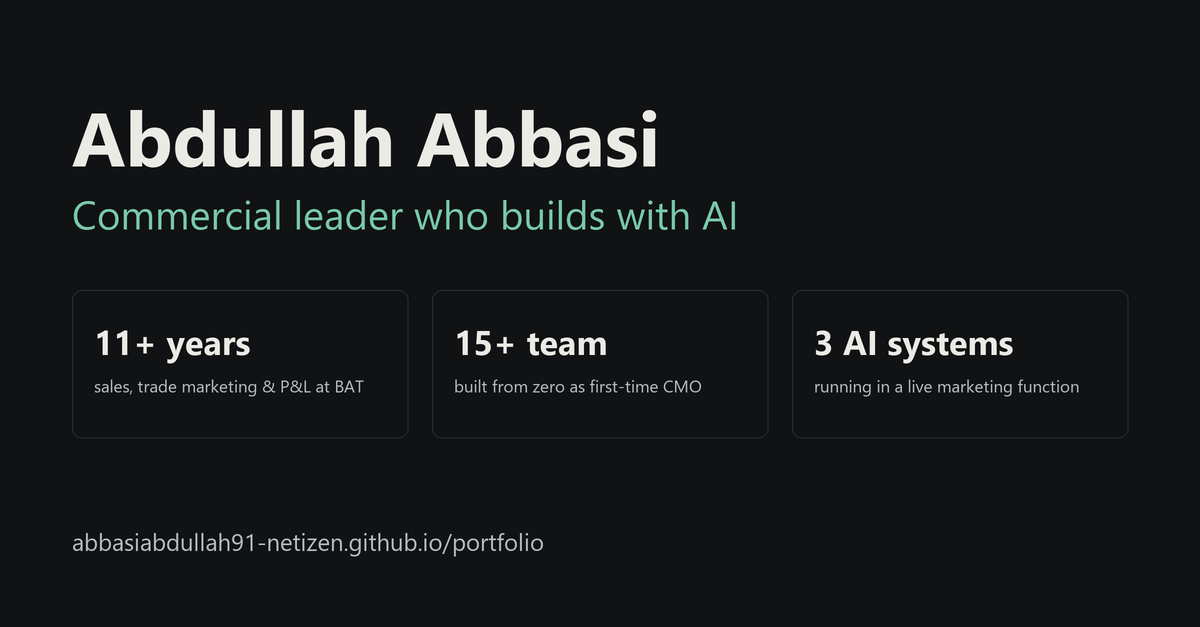
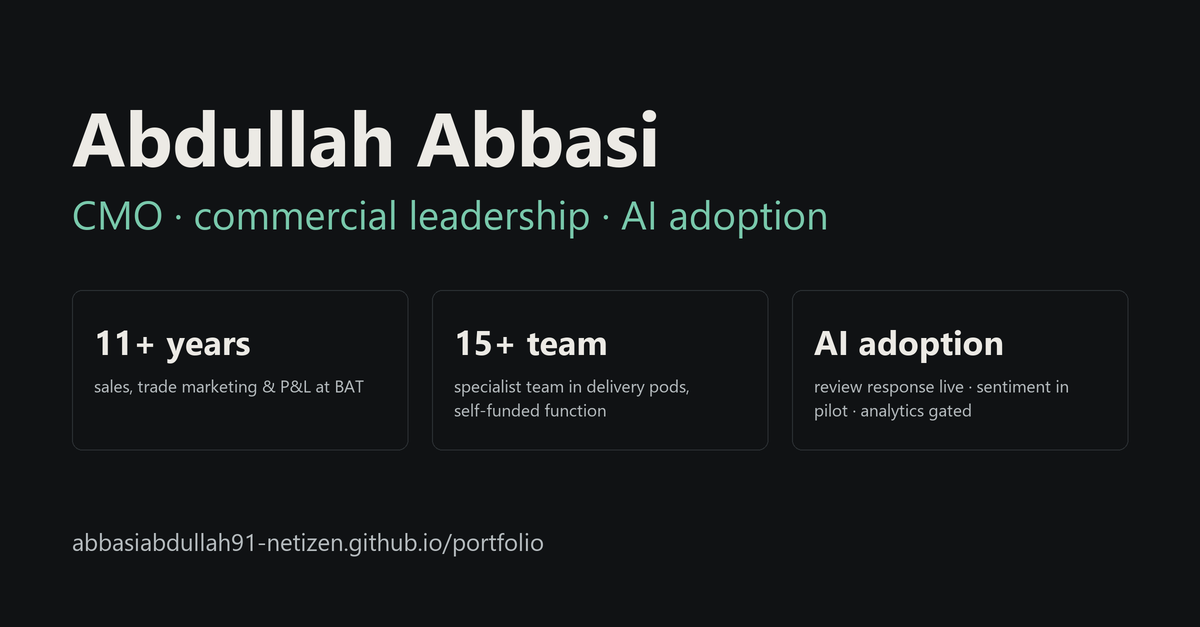
Revision pass 11 Sep 2026: live/pilot/gated wording, team credit, CMO-first hero, new share card

diff --git a/index.html b/index.html
@@ -3,18 +3,18 @@
 <head>
 <meta charset="utf-8">
 <meta name="viewport" content="width=device-width, initial-scale=1">
-<title>Abdullah Abbasi — Commercial leader who builds with AI</title>
-<meta name="description" content="11+ years at BAT, now CMO of a 15+ brand hospitality group. Three AI systems running in a live marketing function, how I run AI as a managed team, and the career behind it.">
+<title>Abdullah Abbasi — Commercial leader, AI adoption in practice</title>
+<meta name="description" content="CMO of a 15+ brand hospitality group, after 11+ years at BAT. Live review response, customer-sentiment reporting in pilot, and a nightly analytics pipeline with reliability still gated.">
 <meta name="author" content="Abdullah Abbasi">
 <meta property="og:type" content="profile">
 <link rel="canonical" href="https://abbasiabdullah91-netizen.github.io/portfolio/">
 <meta property="og:url" content="https://abbasiabdullah91-netizen.github.io/portfolio/">
-<meta property="og:title" content="Abdullah Abbasi — Commercial leader who builds with AI">
-<meta property="og:description" content="11+ years at BAT, now CMO of a 15+ brand hospitality group. Three AI systems running in a live marketing function, how I run AI as a managed team, and the career behind it.">
+<meta property="og:title" content="Abdullah Abbasi — Commercial leader, AI adoption in practice">
+<meta property="og:description" content="CMO of a 15+ brand hospitality group, after 11+ years at BAT. Live review response, customer-sentiment reporting in pilot, and a nightly analytics pipeline with reliability still gated.">
 <meta property="og:image" content="https://abbasiabdullah91-netizen.github.io/portfolio/og.png">
 <meta property="og:image:width" content="1200">
 <meta property="og:image:height" content="627">
-<meta property="og:image:alt" content="Abdullah Abbasi — Commercial leader who builds with AI. 11+ years, 15+ team, 3 AI systems.">
+<meta property="og:image:alt" content="Abdullah Abbasi — CMO, commercial leadership, AI adoption. 11+ years at BAT, 15+ team, review response live, sentiment in pilot, analytics gated.">
 <meta property="og:locale" content="en_GB">
 <meta name="twitter:card" content="summary_large_image">
 <meta name="twitter:image" content="https://abbasiabdullah91-netizen.github.io/portfolio/og.png">
@@ -79,6 +79,7 @@ a:focus-visible,button:focus-visible,textarea:focus-visible,summary:focus-visibl
 .hero h1{font-size:clamp(2.3rem,6vw,3.5rem);margin-bottom:16px}
 .hero .lede{font-size:clamp(1rem,2vw,1.2rem);color:var(--ink-2);max-width:52ch;margin-bottom:20px}
 .hero .lede strong{color:var(--ink);font-weight:600}
+.hero .intent{font-size:.95rem;color:var(--ink-3);max-width:64ch;margin-bottom:22px}
 .actions{display:flex;flex-wrap:wrap;gap:12px}
 .btn{
   display:inline-block;text-decoration:none;font-size:.98rem;font-weight:600;
@@ -100,6 +101,9 @@ a:focus-visible,button:focus-visible,textarea:focus-visible,summary:focus-visibl
 .glance a{display:block;padding:14px 22px;text-decoration:none;color:var(--ink-2);font-size:.95rem}
 .glance a:hover{background:var(--bg-alt)}
 .glance b{display:block;color:var(--ink);font-size:1.25rem;font-weight:680;letter-spacing:-0.02em;margin-bottom:2px}
+.case-links{margin:0;padding:12px 22px;border-top:1px solid var(--rule);display:flex;flex-wrap:wrap;gap:8px 22px;font-size:.9rem}
+.glance .case-links a{display:inline-flex;align-items:center;min-height:44px;padding:0;color:var(--accent);text-decoration-thickness:1px;text-underline-offset:3px}
+.glance .case-links a:hover{background:transparent;text-decoration:none}
 
 /* career */
 .career{padding:28px 0;border-bottom:1px solid var(--rule)}
@@ -111,7 +115,7 @@ a:focus-visible,button:focus-visible,textarea:focus-visible,summary:focus-visibl
 .career details ol{margin-top:0}
 .career summary{
   cursor:pointer;list-style:none;display:inline-flex;align-items:center;gap:9px;
-  font-size:.92rem;font-weight:600;color:var(--accent);padding:4px 0;
+  font-size:.92rem;font-weight:600;color:var(--accent);padding:4px 0;min-height:44px;
 }
 .career summary::-webkit-details-marker{display:none}
 .career summary::after{content:"→";transition:transform .15s ease}
@@ -119,7 +123,7 @@ a:focus-visible,button:focus-visible,textarea:focus-visible,summary:focus-visibl
 @media (prefers-reduced-motion:reduce){.career summary::after{transition:none}}
 .career li{padding:7px 0;border-top:1px solid var(--rule)}
 .career .role{font-weight:650;font-size:1rem;display:block}
-.career .meta{display:block;font-size:.82rem;color:var(--ink-3);margin:1px 0 4px}
+.career .meta{display:block;font-size:14px;color:var(--ink-3);margin:1px 0 4px}
 .career .out{display:block;font-size:.92rem;color:var(--ink-2)}
 .career li.now .role{color:var(--accent)}
 
@@ -129,6 +133,11 @@ a:focus-visible,button:focus-visible,textarea:focus-visible,summary:focus-visibl
 .case-head{max-width:var(--measure)}
 .case-kicker{font-size:.86rem;color:var(--ink-3);margin:0 0 10px}
 .case h2{font-size:clamp(1.6rem,3.6vw,2.3rem)}
+.case-status{
+  display:inline-block;font-size:.78rem;text-transform:uppercase;letter-spacing:.09em;
+  font-weight:700;color:var(--accent);border:1px solid var(--rule);border-radius:var(--radius);
+  padding:4px 10px;margin:0 0 12px;
+}
 .case-grid{display:grid;gap:32px;margin-top:32px;grid-template-columns:1fr}
 @media (min-width:860px){
   .case-grid{grid-template-columns:minmax(0,1.35fr) minmax(0,1fr);gap:48px}
@@ -164,7 +173,7 @@ a:focus-visible,button:focus-visible,textarea:focus-visible,summary:focus-visibl
 .case details{margin-top:22px}
 .case summary{
   cursor:pointer;list-style:none;display:inline-flex;align-items:center;gap:9px;
-  font-size:.95rem;font-weight:600;color:var(--accent);padding:6px 0;
+  font-size:.95rem;font-weight:600;color:var(--accent);padding:6px 0;min-height:44px;
 }
 .case summary::-webkit-details-marker{display:none}
 .case summary::after{content:"→";transition:transform .15s ease}
@@ -176,7 +185,7 @@ a:focus-visible,button:focus-visible,textarea:focus-visible,summary:focus-visibl
 
 /* demo */
 .demo{padding:56px 0;background:var(--bg-alt);border-bottom:1px solid var(--rule)}
-.demo h2{font-size:clamp(1.6rem,3.6vw,2.3rem);max-width:20ch}
+.demo h2,.demo h3{font-size:clamp(1.6rem,3.6vw,2.3rem);max-width:20ch;letter-spacing:-0.02em}
 .demo .intro{color:var(--ink-2);max-width:var(--measure);margin-top:14px}
 .demo-note{
   font-size:.86rem;color:var(--ink-3);border-left:2px solid var(--accent);
@@ -187,13 +196,13 @@ a:focus-visible,button:focus-visible,textarea:focus-visible,summary:focus-visibl
 label{display:block;font-size:.82rem;text-transform:uppercase;letter-spacing:.09em;color:var(--ink-3);font-weight:600;margin-bottom:8px}
 textarea{
   width:100%;min-height:150px;resize:vertical;padding:14px;
-  font:inherit;font-size:.98rem;color:var(--ink);background:var(--surface);
+  font:inherit;font-size:16px;color:var(--ink);background:var(--surface);
   border:1px solid var(--rule);border-radius:var(--radius);
 }
 textarea::placeholder{color:var(--ink-3)}
 .samples{display:flex;flex-wrap:wrap;gap:8px;margin:12px 0 14px}
 .chip{
-  font:inherit;font-size:.86rem;cursor:pointer;padding:7px 13px;
+  font:inherit;font-size:.86rem;cursor:pointer;padding:7px 13px;min-height:44px;
   background:transparent;color:var(--ink);border:1px solid var(--rule);border-radius:var(--radius);
 }
 .chip:hover{border-color:var(--accent);color:var(--accent)}
@@ -216,7 +225,7 @@ textarea::placeholder{color:var(--ink-3)}
 .how details{margin-top:18px}
 .how summary{
   cursor:pointer;list-style:none;display:inline-flex;align-items:center;gap:9px;
-  font-size:.95rem;font-weight:600;color:var(--accent);padding:6px 0;
+  font-size:.95rem;font-weight:600;color:var(--accent);padding:6px 0;min-height:44px;
 }
 .how summary::-webkit-details-marker{display:none}
 .how summary::after{content:"→";transition:transform .15s ease}
@@ -243,7 +252,8 @@ footer p{color:var(--ink-2);max-width:52ch}
 <header class="hero">
   <div class="wrap">
     <h1>Abdullah Abbasi</h1>
-    <p class="lede">11+ years at British American Tobacco in sales, trade marketing and multi-category P&amp;L. <strong>Now CMO of a hospitality group, building the AI systems that run its marketing.</strong></p>
+    <p class="lede"><strong>CMO of a 15+ brand hospitality group, leading commercial operations and AI adoption.</strong> Before that, 11+ years at British American Tobacco in sales, trade marketing and multi-category P&amp;L. Technical implementation sits with partners; I set the problem, the workflow and the acceptance criteria.</p>
+    <p class="intent">Pakistan-based. Open to international commercial leadership and business-side AI adoption conversations; relocation requires employer sponsorship.</p>
     <div class="actions">
       <a class="btn" href="mailto:abbasi.abdullah91@gmail.com">Email me</a>
       <a class="btn ghost" href="https://www.linkedin.com/in/abdullahabbasi91/" rel="me noopener">LinkedIn profile</a>
@@ -255,9 +265,14 @@ footer p{color:var(--ink-2);max-width:52ch}
   <div class="wrap">
     <ul>
       <li><a href="#career-title"><b>11+ years</b> in sales, trade marketing and P&amp;L at British American Tobacco</a></li>
-      <li><a href="#career-title"><b>15+ specialist team</b> built from zero as a first-time CMO</a></li>
-      <li><a href="#case-1"><b>3 AI systems</b> shipped and running in a live marketing function</a></li>
+      <li><a href="#career-title"><b>15+ specialist team</b> in delivery pods, within a self-funded marketing function</a></li>
+      <li><a href="#work"><b>Selected AI work</b> review response live &middot; sentiment in pilot &middot; analytics gated</a></li>
     </ul>
+    <p class="case-links">
+      <a href="#case-1">Review replies with human escalation</a>
+      <a href="#case-2">Owned leadership reporting</a>
+      <a href="#case-3">Customer sentiment by theme</a>
+    </p>
   </div>
 </nav>
 
@@ -266,7 +281,7 @@ footer p{color:var(--ink-2);max-width:52ch}
     <h2 id="career-title">Career</h2>
     <p class="intro">The builds below are the latest chapter of an 11+ year commercial career, not a side project.</p>
       <ol>
-      <li class="now"><span class="role">Chief Marketing Officer</span><span class="meta">15+ brand hospitality group &middot; Mar 2026 &ndash; present</span><span class="out">Built the group&rsquo;s first marketing function, a 15+ specialist team, and the AI systems below.</span></li>
+      <li class="now"><span class="role">Chief Marketing Officer</span><span class="meta">15+ brand hospitality group &middot; Mar 2026 &ndash; present</span><span class="out">Lead a 15+ specialist team organised in delivery pods, within a self-funded marketing function, and the AI adoption below.</span></li>
       <li><span class="role">Head of Marketing Deployment, New Categories &amp; Combustibles</span><span class="meta">British American Tobacco Pakistan &middot; Jul 2024 &ndash; Feb 2026</span><span class="out">First marketing leadership role. VELO to a #1 global brand power ranking, category share above 80%.</span></li>
       <li><span class="role">Senior Area Manager, Karachi</span><span class="meta">British American Tobacco Pakistan &middot; Sep 2022 &ndash; Jun 2024</span><span class="out">Multi-category P&amp;L in Pakistan&rsquo;s largest market, and 300% volume growth in six months on a redesigned vaping model.</span></li>
       </ol>
@@ -293,10 +308,11 @@ footer p{color:var(--ink-2);max-width:52ch}
     <div class="wrap">
       <div class="case-head">
         <p class="case-kicker">Review replies across a hospitality group</p>
-        <h2>Replies went from whenever someone had time to twice a day. The risky ones stayed with a person.</h2>
+        <p class="case-status">Live</p>
+        <h2>Review replies with human escalation</h2>
       </div>
       <ul class="bullets">
-        <li>Review coverage widened roughly 40% in a single evening.</li>
+        <li>Review coverage widened roughly 40% in a single evening. Replies went from whenever someone had time to twice a day.</li>
         <li>Total running cost is a fraction of one junior hire.</li>
         <li>Food safety, legal and anything touching harm still goes to a person.</li>
       </ul>
@@ -307,17 +323,17 @@ footer p{color:var(--ink-2);max-width:52ch}
           <h3>The problem</h3>
           <p>A hospitality group, 15+ brands. Every location collects public reviews. Replies were manual, so they were inconsistent, and an unanswered complaint is the first thing a customer reads before choosing where to eat.</p>
 
-          <h3>What I built</h3>
-          <p>An AI system that drafts and publishes brand-voiced replies to Google reviews across the group, twice a day, with one category permanently reserved for a human: food safety, legal disputes, and anything touching safety or harm.</p>
+          <h3>What we delivered</h3>
+          <p>An AI system that drafts and publishes brand-voiced replies to Google reviews across the group, twice a day, with one category permanently reserved for a human: food safety, legal disputes, and anything touching safety or harm. I set the workflow and acceptance criteria; technical partners implemented it.</p>
 
           <h3>How it works</h3>
           <p>The system checks for new reviews. Each one goes to an AI model carrying the brand's approved reply rules: short, acknowledge, thank or apologise, close, no names, no emojis. The same model sorts the review into ordinary or sensitive. Ordinary replies publish themselves. Sensitive ones go to a person.</p>
 
           <h3>What it proves</h3>
           <ol class="proof">
-            <li><b>I diagnose before I build.</b> An eight-week publishing failure had been attributed to the platform. It was five stacked operational faults: expired balances, full storage, two formatting defects. The AI was never the problem, and finding that saved a rebuild.</li>
+            <li><b>I diagnose before we build.</b> An eight-week publishing failure had been attributed to the platform. It was five stacked operational faults: expired balances, full storage, two formatting defects. The AI was never the problem, and finding that saved a rebuild.</li>
             <li><b>I decided where the human stays.</b> Removing the last approval step was possible. I refused it for the sensitive category. A machine that auto-replies to a food-safety complaint is a brand risk no efficiency saving pays for.</li>
-            <li><b>I learned what my own controls could not see.</b> Every monitor I built detected failure. None detected too much. One listing over-replied for days while every check read green, and a person noticing the volume felt wrong was what caught it. I built the anomaly check afterwards.</li>
+            <li><b>I learned what our controls could not see.</b> Our monitoring initially detected stoppages but missed excess activity. One listing over-replied for days while every check read green, and a person noticing the volume felt wrong was what caught it. We added the anomaly check afterwards.</li>
           </ol>
         </div>
         <aside class="rail">
@@ -343,11 +359,13 @@ footer p{color:var(--ink-2);max-width:52ch}
     <div class="wrap">
       <div class="case-head">
         <p class="case-kicker">Owned analytics in place of a paid subscription</p>
-        <h2>Leadership reporting at roughly 3% of the subscription it replaced, and a spend figure that finally tied to the finance total.</h2>
+        <p class="case-status">Reliability still gated</p>
+        <h2>Owned leadership reporting</h2>
       </div>
       <ul class="bullets">
         <li>Runs at roughly 3% of the running cost of the subscription it replaced.</li>
         <li>The spend figure went live only once it tied to the finance-verified total.</li>
+        <li>The page displays its data date and coverage gaps. Runs can fail, and reliability is still gated.</li>
       </ul>
       <details id="build-2">
         <summary>Read the build</summary>
@@ -356,16 +374,16 @@ footer p{color:var(--ink-2);max-width:52ch}
           <h3>The problem</h3>
           <p>The group was about to renew a paid analytics subscription for data the platforms already give away free through their own interface. Worse, the numbers it produced did not reconcile against what finance said had been spent, so the dashboard and the ledger disagreed and nobody could say which one was wrong.</p>
 
-          <h3>What I built</h3>
-          <p>An owned reporting pipeline. A small server pulls organic and paid performance for every brand handle directly from the platform each night and regenerates one leadership dashboard. No vendor in the middle.</p>
+          <h3>What we delivered</h3>
+          <p>An owned reporting pipeline. The pipeline refreshes reporting for participating social accounts nightly, pulling organic and paid performance directly from the platform and regenerating one leadership dashboard. No vendor in the middle. I set the workflow and acceptance criteria; technical partners implemented it.</p>
 
           <h3>What runs each night</h3>
-          <p>The server asks the platform for yesterday's numbers, stores them, and rebuilds the page. If a run fails, the page shows its own age, so an old number can never pass as a fresh one. Leadership opens one link.</p>
+          <p>The server asks the platform for yesterday's numbers, stores them, and rebuilds the page. The page displays its data date and coverage gaps; runs can fail. Leadership opens one link.</p>
 
           <h3>What it proves</h3>
           <ol class="proof">
             <li><b>Buy or own is a judgment, not a policy.</b> The subscription bought convenience over a free interface. At this volume, owning it cost a fraction and removed a vendor sitting between the business and its own performance data.</li>
-            <li><b>I held the spend figure back until it reconciled.</b> The spend figure did not go live until it tied exactly to the finance-verified total. That check runs inside the job and stops it rather than publishing something plausible and wrong.</li>
+            <li><b>I held the spend figure back until it reconciled.</b> The spend figure did not go live until it tied exactly to the finance-verified total. We reconcile against available finance-verified totals. Unverified periods are identified; affected breakdowns are withheld when checks fail.</li>
             <li><b>I state what the data cannot do.</b> Some figures the platform simply will not give you. Where that is true, the number sits beside the headline instead of being folded into it, and the dashboard says so. Two of the worst defects I caught were two numbers that looked alike being added together.</li>
           </ol>
         </div>
@@ -390,11 +408,13 @@ footer p{color:var(--ink-2);max-width:52ch}
     <div class="wrap">
       <div class="case-head">
         <p class="case-kicker">Theme-level customer sentiment</p>
-        <h2>One blended star average became eleven themes, scored separately. An operator can now see which thing is slipping, and where.</h2>
+        <p class="case-status">Pilot</p>
+        <h2>Customer sentiment by theme</h2>
       </div>
       <ul class="bullets">
         <li>11 themes scored separately, in place of one blended star average.</li>
-        <li>Serious complaints flagged the same day instead of buried in the pile.</li>
+        <li>In the pilot, serious complaints were flagged the same day instead of buried in the pile.</li>
+        <li>A pilot at the flagship outlet. Wider rollout remains gated.</li>
       </ul>
       <details id="build-3">
         <summary>Read the build, and try the scorer</summary>
@@ -403,11 +423,11 @@ footer p{color:var(--ink-2);max-width:52ch}
           <h3>The problem</h3>
           <p>Customer feedback arrived across several platforms and was read by nobody in any structured way. Leadership had a star average and nothing else. "Service is slipping" was something you heard from a manager, weeks late.</p>
 
-          <h3>What I built</h3>
-          <p>A nightly customer-sentiment engine. It collects reviews and comments, scores them by theme, and puts them on a leadership screen, with an immediate alert path for serious complaints.</p>
+          <h3>What we delivered</h3>
+          <p>A customer-sentiment pilot that scores feedback by theme and flags serious complaints. It collects reviews and comments nightly, scores them by theme, and puts them on a leadership screen, with an immediate alert path. Wider rollout remains gated. I set the workflow and acceptance criteria; technical partners implemented it.</p>
 
           <h3>How the scoring works</h3>
-          <p>Each night the system collects new feedback. An AI model breaks every review into the things the customer actually mentioned, food, service, speed, cleanliness, price and more, and scores each one separately. A review that praises the food and slates the wait counts as one positive and one negative, not one lukewarm. Anything touching safety, misconduct or fraud is flagged the same day.</p>
+          <p>Each night the system collects new feedback. An AI model breaks every review into the things the customer actually mentioned, food, service, speed, cleanliness, price and more, and scores each one separately. A review that praises the food and slates the wait counts as one positive and one negative, not one lukewarm. During the pilot measurement, serious complaints were flagged the same day at one flagship outlet.</p>
 
           <h3>What it proves</h3>
           <ol class="proof">
@@ -421,19 +441,20 @@ footer p{color:var(--ink-2);max-width:52ch}
             <dt>11 themes</dt>
             <dd>scored separately per mention, in place of a single blended star average</dd>
             <dt>Same day</dt>
-            <dd>serious complaints moved from buried in the pile to flagged on the day they arrived</dd>
+            <dd>in the pilot, serious complaints moved from buried in the pile to flagged on the day they arrived</dd>
             <dt>2x+</dt>
             <dd>one review platform ran more than twice as positive as the other, for the same restaurant in the same period, so any blended satisfaction score was largely measuring which platform people chose</dd>
           </dl>
-          <p class="caveat">What the engine did when it was measured. No uptime record is claimed.</p>
+          <p class="caveat">Measured during the pilot at one flagship outlet. No uptime record is claimed, and wider rollout remains gated.</p>
         </aside>
       </div>
       <!-- DEMO -->
       <section class="demo" aria-labelledby="demo-title">
         <div class="wrap">
-          <h2 id="demo-title">Why scoring by theme beats scoring by review</h2>
+          <h3 id="demo-title">Why scoring by theme beats scoring by review</h3>
           <p class="intro">Paste a review, or click one of the examples. The scorer splits it into the things the customer actually talked about and gives each one its own sign. One review can be positive and negative at the same time, and usually is.</p>
           <p class="demo-note">Illustrative demo. A simplified keyword stand-in for the production model, running entirely in your browser. No real customer data.</p>
+          <noscript><p class="demo-note">This demo needs JavaScript. With it switched off, the example buttons and the results panel below stay empty.</p></noscript>
 
           <div class="demo-cols">
             <div>
@@ -460,12 +481,10 @@ footer p{color:var(--ink-2);max-width:52ch}
 <section class="how also" aria-labelledby="ai-title">
   <div class="wrap">
     <h2 id="ai-title">How I work with AI</h2>
-    <p class="intro">I am not an engineer. The builds above exist because I run AI systems the way I ran commercial teams: set the brief, delegate, verify, ship.</p>
+    <p class="intro">I am not an engineer, and I do not build these systems myself. Technical partners implement them.</p>
     <ol>
-      <li><b>A managed team of models, not a chatbot</b><span>One model plans and delegates, others build in parallel, and a model from a different vendor reviews the work adversarially before anything ships — because a second copy of the same engine shares its blind spots.</span></li>
-      <li><b>An operating system for the models</b><span>A shared written memory every model reads from and writes back to, custom skills and routines for repeat jobs, and checks that catch a stale or invented fact before it spreads. It is how the systems above get built and maintained.</span></li>
-      <li><b>Infrastructure by instruction</b><span>I stand up new tooling by briefing an agent and verifying the result — calling one model from inside another, routing work between models, standing up an open-source tool end-to-end — rather than waiting on a developer.</span></li>
-      <li><b>Scale through workflows</b><span>For broad or repetitive jobs I design the workflow and let sub-agents fan out and report back, with the self-checks they must pass before the work reaches me.</span></li>
+      <li><b>What I own</b><span>I choose the business problem, set the workflow and acceptance criteria, coordinate technical partners, and lead adoption.</span></li>
+      <li><b>How errors get caught</b><span>I use a shared written record and independent checks to reduce errors, including review by a model from a different vendor, because a second copy of the same engine shares its blind spots.</span></li>
     </ol>
   </div>
 </section>
@@ -477,7 +496,7 @@ footer p{color:var(--ink-2);max-width:52ch}
     <p class="intro">In progress, no results claimed yet. Each graduates to a case study above once it has a number behind it.</p>
     <ol>
       <li><b>Brand identity, logo to brand book</b><span>A repeatable pipeline that takes a new restaurant brand from first logo options through mood board and identity to a full brand book with AI-rendered visuals and a designer hand-off.</span></li>
-      <li><b>An AI content pipeline for 15+ brands</b><span>Claude Code orchestrated to run competitor research, find the formats that are winning in each category, and produce the video and image content to match — feeding a multi-brand content calendar rather than a one-off shoot.</span></li>
+      <li><b>An AI content pipeline for 15+ brands</b><span>An AI-assisted content workflow, with human creative direction and review, feeding a multi-brand content calendar rather than a one-off shoot.</span></li>
     </ol>
   </div>
 </section>
@@ -491,7 +510,7 @@ footer p{color:var(--ink-2);max-width:52ch}
     <ol>
       <li><b>Diagnose before building.</b> <span>I stopped a rebuild after finding that the assumed cause was wrong. I look for the real fault first, even when a plausible one is already agreed.</span></li>
       <li><b>Decide where the human stays.</b> <span>Full automation was available in the review-reply system. I keep the approval step where the failure mode is a brand risk no efficiency saving pays for.</span></li>
-      <li><b>A number ships when it reconciles.</b> <span>A figure goes live once it ties to an independently verified total. The check sits inside the job and stops it rather than publishing something plausible and wrong.</span></li>
+      <li><b>Reconcile against verified totals where available.</b> <span>We reconcile against available finance-verified totals; unverified periods are identified, and affected breakdowns are withheld when checks fail.</span></li>
     </ol>
     </details>
   </div>
